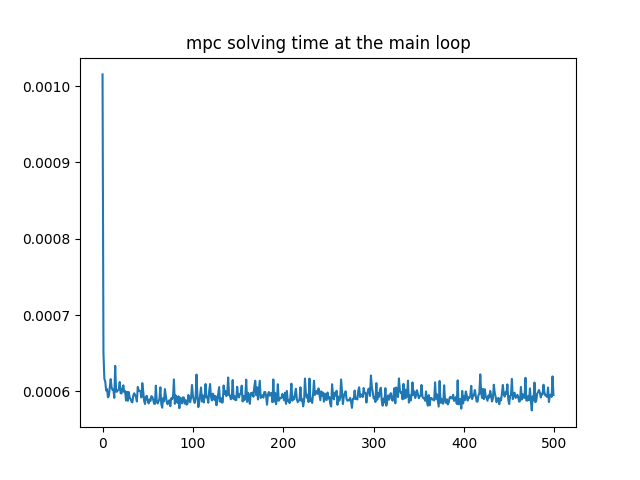
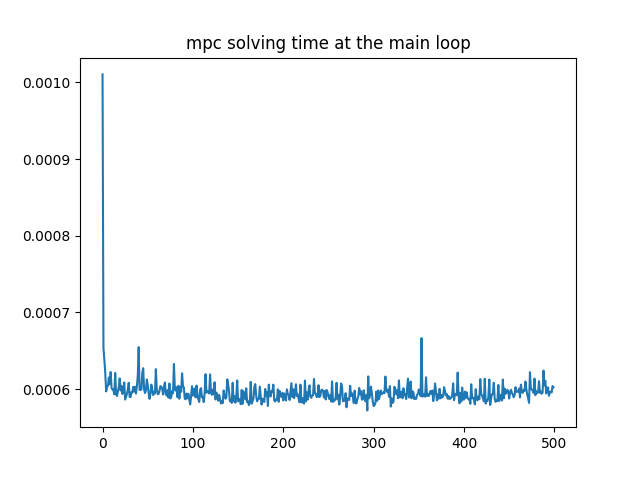
random position train

diff --git a/gestelt_bringup/src/Learning_Agile/deep_learning.py b/gestelt_bringup/src/Learning_Agile/deep_learning.py
@@ -51,6 +51,9 @@ def calc_grad(config_dict,inputs, outputs, gra):
     # quadrotor & MPC initialization
     # quad1 = run_quad(config_dict,goal_pos=inputs[3:6],ini_r=inputs[0:3].tolist(),ini_q=toQuaternion(inputs[6],[0,0,1]),horizon=20)
     
+    print('traverseing pose:',inputs[3:6])
+    quad1 = run_quad(config_dict,  
+                    USE_PREV_SOLVER=True)
     final_q=R.from_euler('xyz',[0,0,inputs[6]]).as_quat()
     final_q=np.roll(final_q,1)
     
@@ -71,6 +74,8 @@ def calc_grad(config_dict,inputs, outputs, gra):
     # receive the decision variables from DNN1, do the MPC, then calculate d_reward/d_z
     gra[:] = quad1.sol_gradient(quad1.ini_state,outputs[0:3],outputs[3:6],outputs[6])
 
+    quad1.uavoc1.acados_solver.reset()
+
 if __name__ == '__main__':
 
     # load the configuration file
@@ -80,14 +85,11 @@ if __name__ == '__main__':
     yaml_file = os.path.join(conf_folder, 'learning_agile_mission.yaml')
     with open(yaml_file, 'r', encoding='utf-8') as file:
         config_dict = yaml.safe_load(file)
-    
-    # generate the solver
-    quad1 = run_quad(config_dict,  
-    USE_PREV_SOLVER=False)
-   
 
     FILE = os.path.join(current_dir, "nn_pre.pth")
     model = torch.load(FILE)
+    quad1 = run_quad(config_dict,  
+                    USE_PREV_SOLVER=False)
     for k in range(1):
 
         optimizer = torch.optim.Adam(model.parameters(), lr=learning_rate)
@@ -103,11 +105,15 @@ if __name__ == '__main__':
                 n_out = []
                 n_gra = []
                 n_process = []
+                    
+                    
+               
+
                 for _ in range(num_cores):
                     # sample
                     inputs = nn_sample()
-                    inputs[0:3]=np.array([0,1.8,1.4])
-                    inputs[3:6]=np.array([0,-1.8,1.4])
+                    # inputs[0:3]=np.array([0,1.8,1.4])
+                    # inputs[3:6]=np.array([0,-1.8,1.4])
                     
                     # forward pass
                     outputs = model(inputs)
@@ -127,6 +133,8 @@ if __name__ == '__main__':
 
                 #calculate gradient and loss
                 for j in range(num_cores):
+                     # generate the solver
+                    
                     p = Process(target=calc_grad,args=(config_dict,n_inputs[j],n_out[j],n_gra[j]))
                     p.start()
                     n_process.append(p)

diff --git a/gestelt_bringup/src/Learning_Agile/quad_nn.py b/gestelt_bringup/src/Learning_Agile/quad_nn.py
@@ -18,12 +18,12 @@ from scipy.spatial.transform import Rotation as R
 def nn_sample(init_pos=None,final_pos=None,init_angle=None):
     inputs = np.zeros(9)
     if init_pos is None:
-        inputs[0:3] = np.random.uniform(-5,5,size=3) + np.array([0,-9,0]) #-5~5, -9
+        inputs[0:3] = np.random.uniform(-5,5,size=3) + np.array([0,1.8,0]) #-5~5, -9
     else:
         inputs[0:3] = init_pos
     ## random final postion 
     if final_pos is None:
-        inputs[3:6] = np.random.uniform(-2,2,size=3) + np.array([0,6,0]) #-2~2, 6
+        inputs[3:6] = np.random.uniform(-2,2,size=3) + np.array([0,-1.8,0]) #-2~2, 6
     else:
         inputs[3:6] = final_pos
     ## random initial yaw angle of the quadrotor
